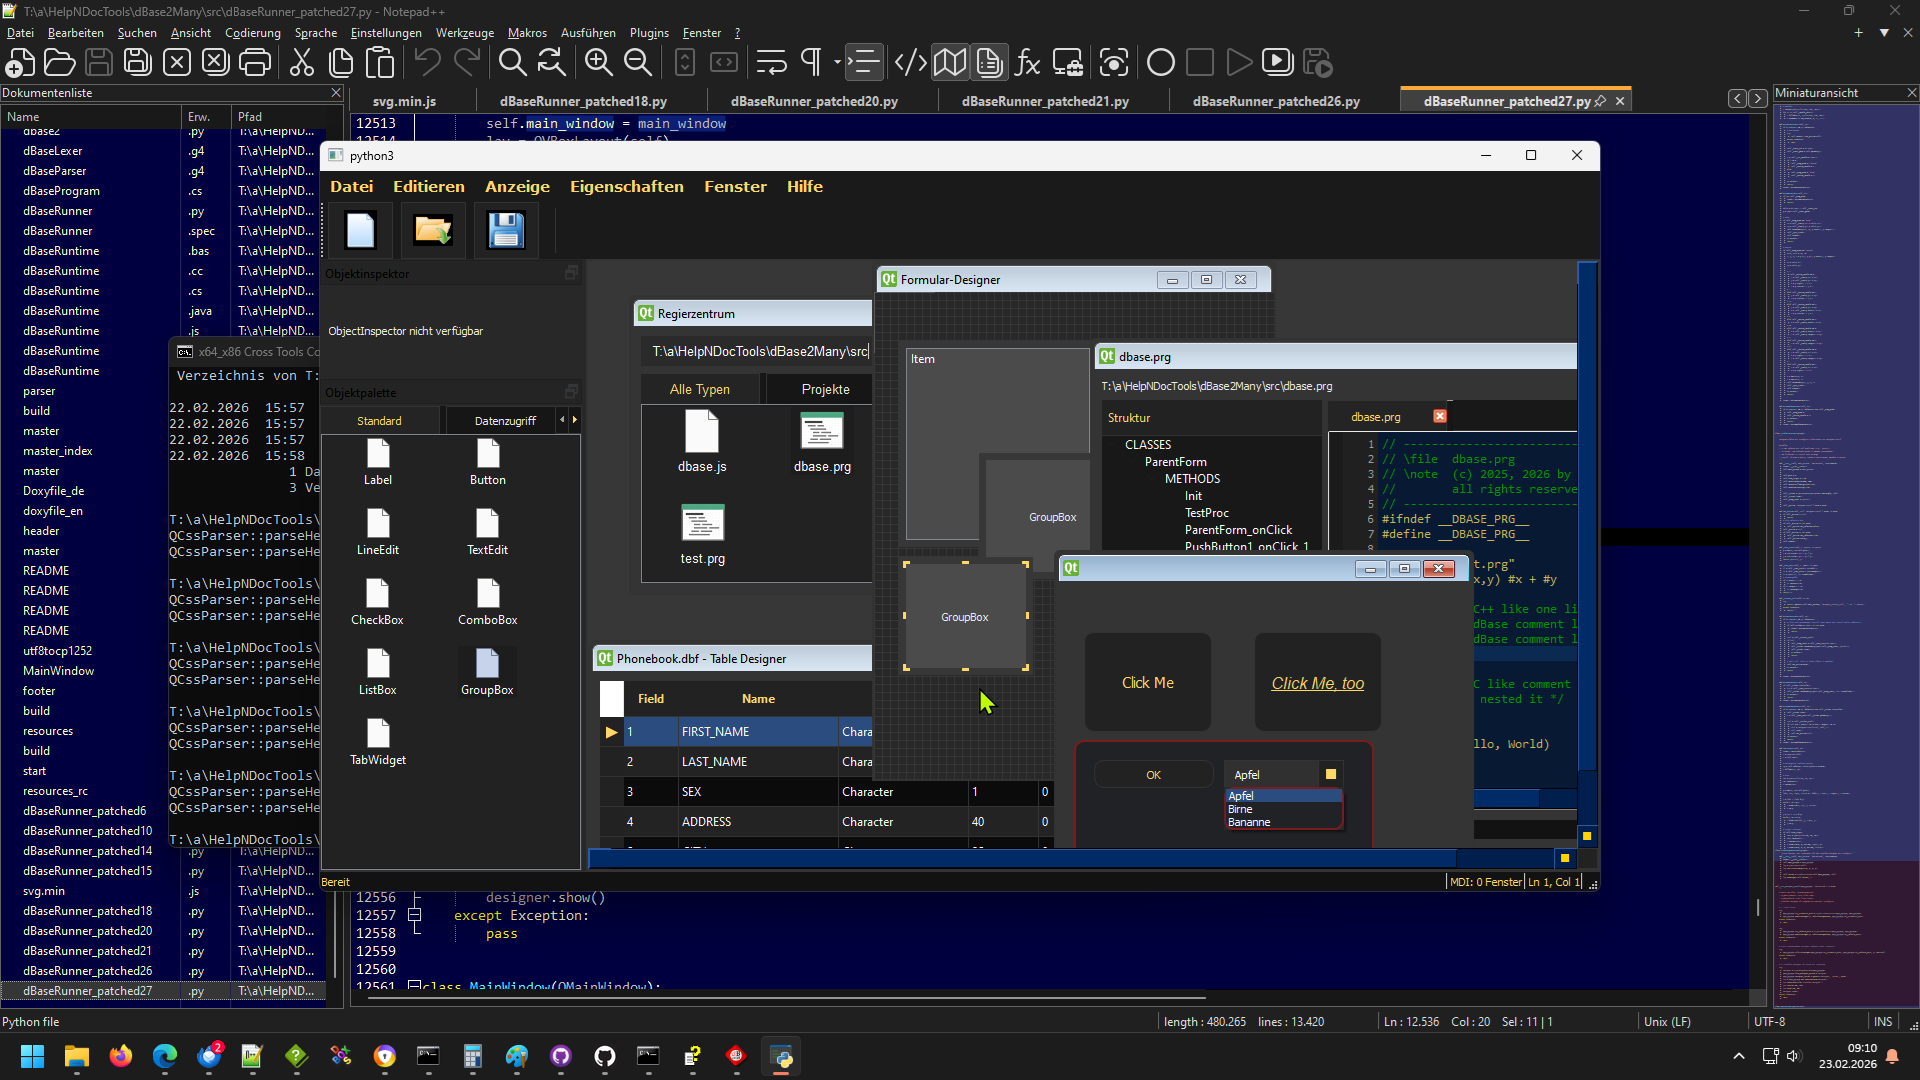
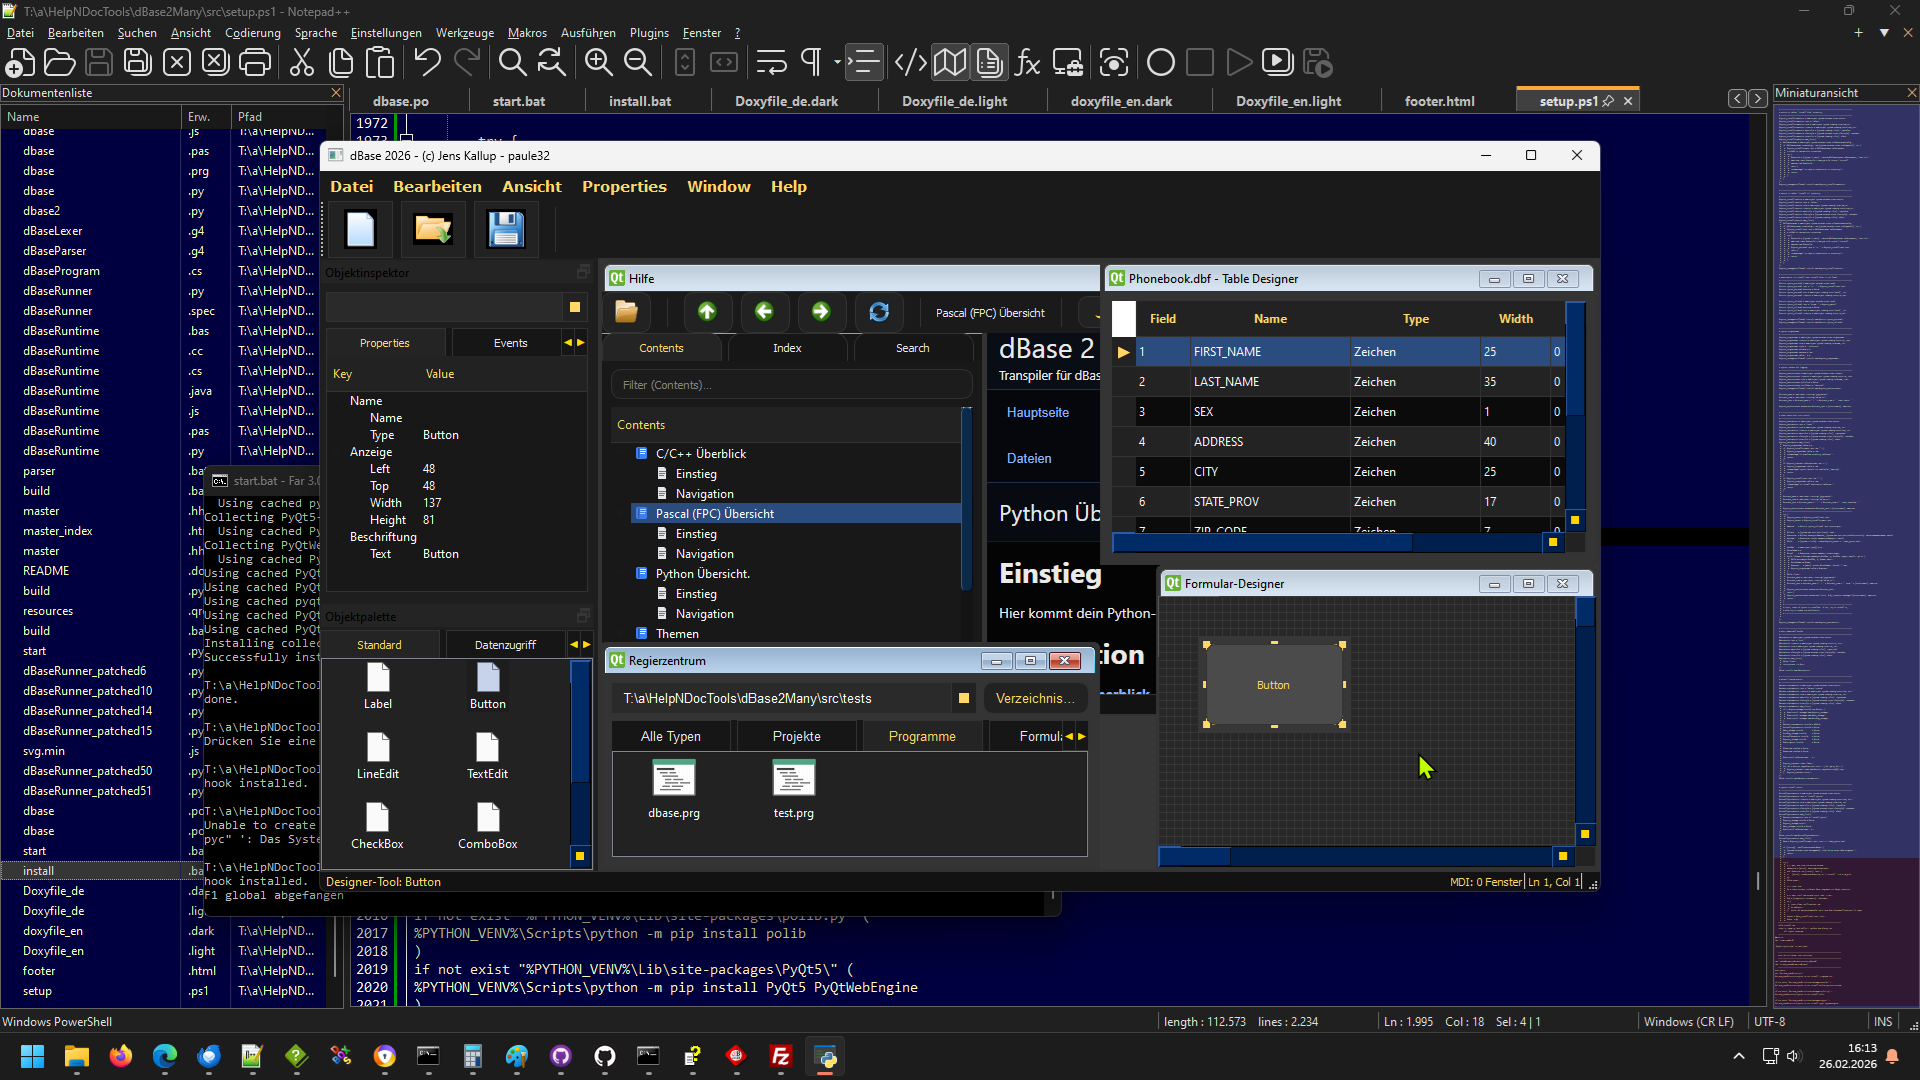
readme.md update
- mark-up the readme.md with:
- screen shot of setup procedure

diff --git a/README.md b/README.md
@@ -1,9 +1,23 @@
 # dBase2Many
 dBase --> Python, Pascal, C++ transpiler
 
-You can download a very pre-Alpha-Version at this Download Site:
+To start the Application you need Python 3.13.12<br>
+For install this version you can use the Microsoft Windows 11 PowerShell Script named setup.ps1.
+If you have problems by starting this script, you can try to exec it by call the setup.bat batch
+file on the Command Line Interface (CLI) - the Windows Console.
+You use it at your own risk - no support.
 
-https://kallup.net/dbase
+Check the release section on the middle right side of github.com at this repository.
+The Pictures can be out of date.
+They may don't give the correct state of the project - I'll try to keep them up to date.
+
+Preview Setup A
+![Preview](img/screen00a.png)
+
+
+Preview Setup B
+![Preview](img/screen00b.png)
+
 
 Preview
 ![Preview](img/screen002.png)
